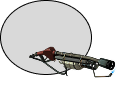
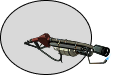
fix animation stuff and added hammer + pyro animation

Changed region(s): [[0.0, 0.0, 0.9652, 0.9048]]

diff --git a/src/main/java/logic/entity/characters/meleeCharacters/Katana.java b/src/main/java/logic/entity/characters/meleeCharacters/Katana.java
@@ -12,17 +12,6 @@ import java.util.Objects;
 
 public class Katana extends MeleeClass implements AttackAnimation {
 
-    private Image[] attackFrames;
-    private final int totalFrames = 2;
-
-    private int frameIndex = 0;
-    private int frameTimer = 0;
-
-    private long lastFrameTime;
-    private final long FRAME_DURATION = 320_000_000;
-
-    private final int FRAME_DELAY = 5; // speed
-    private boolean finished = false;
 
     public Katana(int hp, int atk, int def, int attackRange, float attackSpeed) {
         super(hp, atk, def, attackRange, attackSpeed);
@@ -32,7 +21,9 @@ public class Katana extends MeleeClass implements AttackAnimation {
     public Katana() {
         super();
         setName("Katana");
-        setupAttackFrame(totalFrames);
+        setTotalFrames(2);
+        setFRAME_DURATION(300_000_000);// nano-sec
+        setupAttackFrame(getTotalFrames());
     }
 
     @Override
@@ -52,43 +43,5 @@ public class Katana extends MeleeClass implements AttackAnimation {
         }
     }
 
-    @Override
-    public void startAttack(Player self) {
-        frameIndex = 0;
-        finished = false;
-        lastFrameTime = System.nanoTime();
 
-        self.getWeaponSprite().setImage(attackFrames[0]);
-    }
-
-    @Override
-    public void updateAttack(Player self) {
-
-        long now = System.nanoTime();
-
-        // change frame every few ticks
-        if(now - lastFrameTime >= FRAME_DURATION){
-
-            lastFrameTime = now;
-            frameIndex++;
-
-            if(frameIndex >= attackFrames.length){
-                finished = true;
-                self.setState(PlayerState.WALK);
-                return;
-            }
-
-            self.getWeaponSprite()
-                    .setImage(attackFrames[frameIndex]);
-        }
-
-        // ⭐ HIT FRAME (middle frame)
-//        if(frameIndex == 1){
-//            dealDamage(self, enemy);
-//        }
-    }
-
-    public boolean isAttackFinished(){
-        return this.finished;
-    }
 }

diff --git a/src/main/java/logic/entity/characterClass/MeleeClass.java b/src/main/java/logic/entity/characterClass/MeleeClass.java
@@ -3,6 +3,7 @@ package logic.entity.characterClass;
 import logic.entity.AttackData;
 import logic.entity.Character;
 import logic.gameLogic.Player;
+import logic.gameLogic.PlayerState;
 import logic.interfaces.Attackable;
 
 public abstract class MeleeClass extends Character implements Attackable {
@@ -27,5 +28,44 @@ public abstract class MeleeClass extends Character implements Attackable {
     @Override
     public AttackData getAttackData() {
         return null;
+    }
+
+    @Override
+    public void startAttack(Player self) {
+        frameIndex = 0;
+        finished = false;
+        lastFrameTime = System.nanoTime();
+        if (attackFrames.length > 0) self.getWeaponSprite().setImage(attackFrames[0]);
+    }
+
+    @Override
+    public void updateAttack(Player self) {
+
+        long now = System.nanoTime();
+
+        // change frame every few ticks
+        if(now - lastFrameTime >= FRAME_DURATION){
+
+            lastFrameTime = now;
+            frameIndex++;
+
+            if(frameIndex >= attackFrames.length){
+                finished = true;
+                self.setState(PlayerState.WALK);
+                return;
+            }
+
+            self.getWeaponSprite()
+                    .setImage(attackFrames[frameIndex]);
+        }
+
+        // ⭐ HIT FRAME (middle frame)
+//        if(frameIndex == 1){
+//            dealDamage(self, enemy);
+//        }
+    }
+
+    public boolean isAttackFinished(){
+        return this.finished;
     }
 }

diff --git a/src/main/java/logic/entity/characters/meleeCharacters/Hammer.java b/src/main/java/logic/entity/characters/meleeCharacters/Hammer.java
@@ -1,5 +1,6 @@
 package logic.entity.characters.meleeCharacters;
 
+import javafx.scene.image.Image;
 import logic.entity.AttackData;
 import logic.entity.characterClass.MeleeClass;
 import logic.gameLogic.Player;
@@ -13,6 +14,9 @@ public class Hammer extends MeleeClass {
     public Hammer() {
         super();
         setName("Hammer");
+        setTotalFrames(2);
+        setFRAME_DURATION(400_000_000);
+        setupAttackFrame(getTotalFrames());
     }
 
     @Override
@@ -20,23 +24,16 @@ public class Hammer extends MeleeClass {
         return new AttackData(90, 120);
     }
 
-    @Override
-    public void startAttack(Player self) {
-
-    }
-
-    @Override
-    public void updateAttack(Player self) {
-
-    }
 
     @Override
     public void setupAttackFrame(int totalFrame) {
+        attackFrames = new Image[totalFrame];
 
-    }
-
-    @Override
-    public boolean isAttackFinished() {
-        return false;
+        for (int i = 0; i < totalFrame; i++) {
+            String path =
+                    "/animations/hammer/attack/frame" + (i + 1) + ".png";
+            attackFrames[i] = new Image(
+                    getClass().getResource(path).toExternalForm());
+        }
     }
 }

diff --git a/src/main/java/logic/entity/characters/meleeCharacters/Pyro.java b/src/main/java/logic/entity/characters/meleeCharacters/Pyro.java
@@ -1,5 +1,6 @@
 package logic.entity.characters.meleeCharacters;
 
+import javafx.scene.image.Image;
 import logic.entity.AttackData;
 import logic.entity.characterClass.MeleeClass;
 import logic.gameLogic.Player;
@@ -12,7 +13,10 @@ public class Pyro extends MeleeClass {
 
     public Pyro() {
         super();
+        setTotalFrames(1);
+        setFRAME_DURATION(100_000_000);
         setName("Pyro");
+        setupAttackFrame(getTotalFrames());
     }
 
     @Override
@@ -20,23 +24,17 @@ public class Pyro extends MeleeClass {
         return new AttackData(90, 120);
     }
 
-    @Override
-    public void startAttack(Player self) {
-
-    }
-
-    @Override
-    public void updateAttack(Player self) {
-
-    }
 
     @Override
     public void setupAttackFrame(int totalFrame) {
+        attackFrames = new Image[totalFrame];
 
+        for (int i = 0; i < totalFrame; i++) {
+            String path =
+                    "/animations/pyro/attack/frame" + (i + 1) + ".png";
+            attackFrames[i] = new Image(
+                    getClass().getResource(path).toExternalForm());
+        }
     }
 
-    @Override
-    public boolean isAttackFinished() {
-        return false;
-    }
 }

diff --git a/src/main/java/logic/entity/Character.java b/src/main/java/logic/entity/Character.java
@@ -19,6 +19,17 @@ public abstract class Character implements Attackable, Damageable, AttackAnimati
     // weapon
     private ImageView weaponSprite;
 
+    // animation
+    protected Image[] attackFrames;
+    protected int totalFrames;
+
+    protected int frameIndex = 0;
+
+    protected long lastFrameTime;
+    protected long FRAME_DURATION;
+
+    protected boolean finished = false;
+
     public Character(int hp, int atk, int def, int attackRange, float attackSpeed) {
         this.setHp(hp);
         this.setAtk(atk);
@@ -117,4 +128,21 @@ public abstract class Character implements Attackable, Damageable, AttackAnimati
     }
 
     public abstract AttackData getAttackData();
+
+    public void setTotalFrames(int totalFrames) {
+        this.totalFrames = totalFrames;
+    }
+
+    public void setFRAME_DURATION(long FRAME_DURATION) {
+        this.FRAME_DURATION = FRAME_DURATION;
+    }
+
+    public int getTotalFrames() {
+        return totalFrames;
+    }
+
+    @Override
+    public boolean isAttackFinished() {
+        return finished;
+    }
 }

diff --git a/src/main/java/logic/gameLogic/PlayerLogic.java b/src/main/java/logic/gameLogic/PlayerLogic.java
@@ -82,9 +82,7 @@ public class PlayerLogic {
         if(event.getCode() == attackKey){
             attack();
             player.setState(PlayerState.ATTACK);
-            if (player.getCharacter() instanceof Katana){
-                ((Katana) player.getCharacter()).startAttack(player);
-            }
+            player.getCharacter().startAttack(player);
         }
 
     }
@@ -193,10 +191,6 @@ public class PlayerLogic {
         // only when walk state
         //if (player.getState() == PlayerState.WALK){
         player.translate(velocityX, 0);
-
-
-
-
 
 
         // ==== WEAPON SPRITE ===== //

diff --git a/src/main/java/logic/interfaces/AttackAnimation.java b/src/main/java/logic/interfaces/AttackAnimation.java
@@ -9,4 +9,8 @@ public interface AttackAnimation {
     void updateAttack(Player self);
     void setupAttackFrame(int totalFrame);
     boolean isAttackFinished();
+    void setFRAME_DURATION(long FRAME_DURATION);
+    void setTotalFrames(int totalFrames);
+
+    // Must set frame duration amd total frames for animation to work properly
 }
